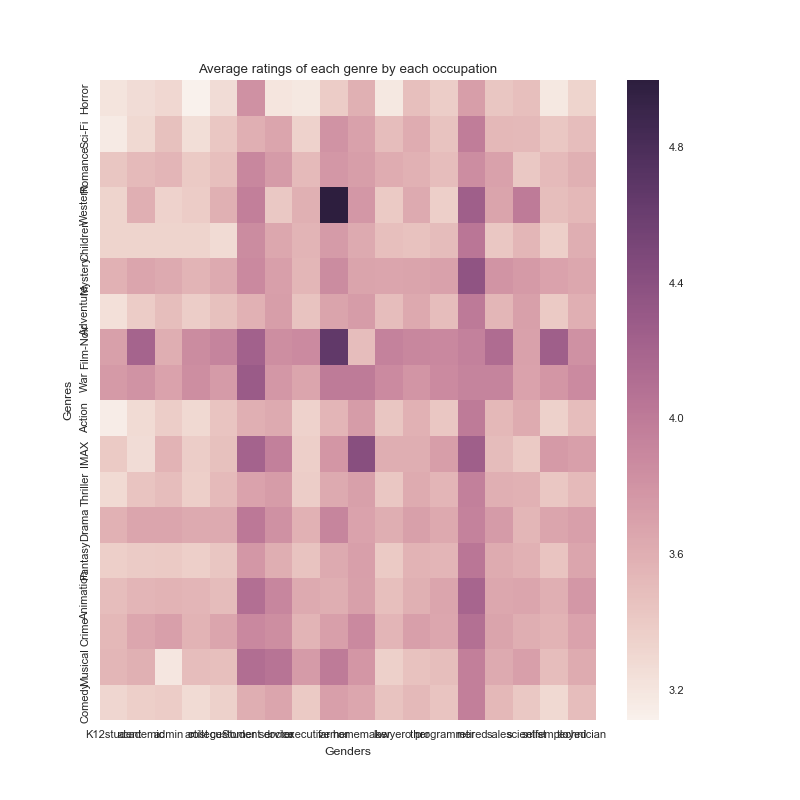
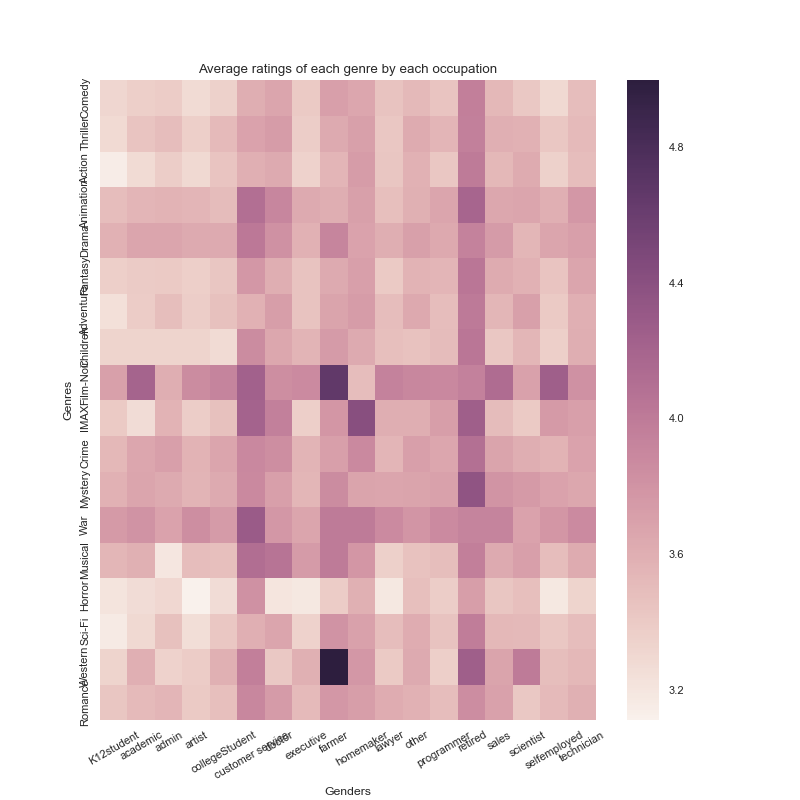
7.3

diff --git a/Final/Analysis1.py b/Final/Analysis1.py
@@ -87,6 +87,8 @@ def occupation():
 	#print(df_occu)
 	plt.figure(figsize=(8,8))
 	sns.set(font_scale=0.8)
+	plt.xticks(rotation=30)
+	plt.yticks(rotation=30)
 	sns.heatmap(df_occu)
 	plt.title("Average ratings of each genre by each occupation")
 	plt.ylabel('Genres')
